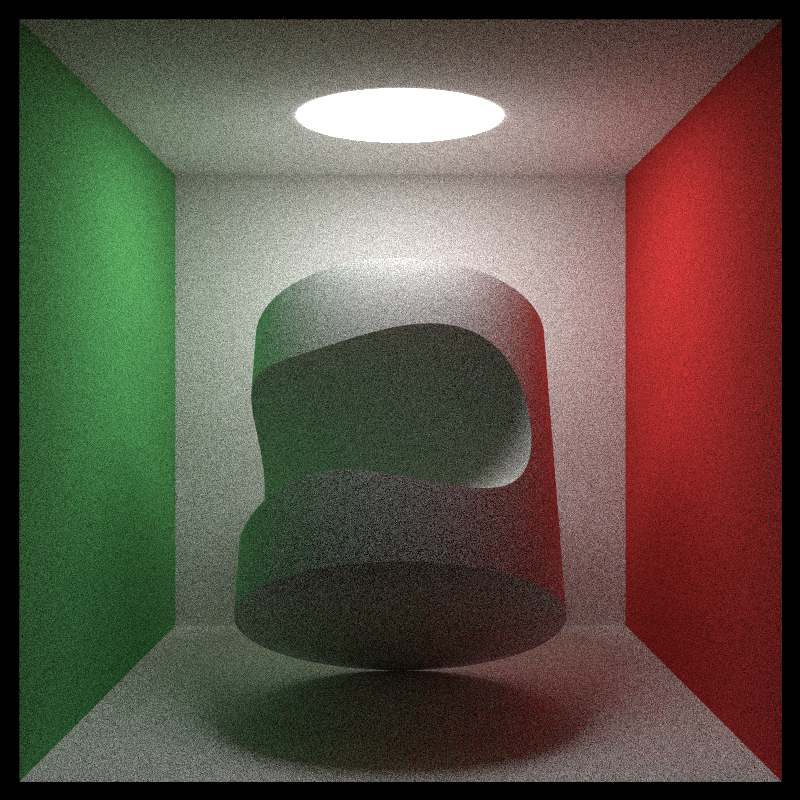
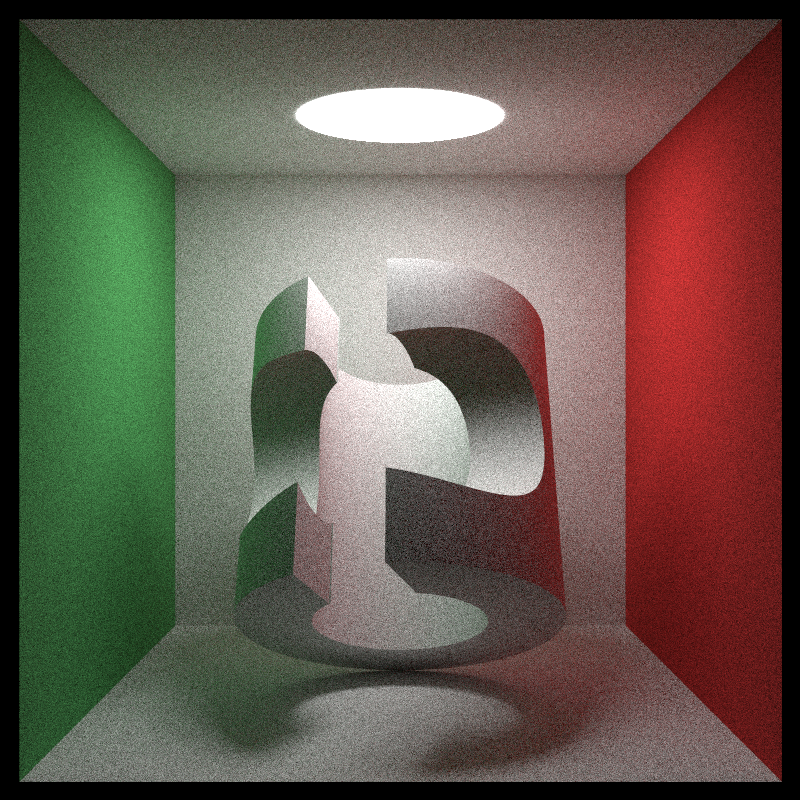
simple geometry subtraction

diff --git a/src/Hittable/Operation/Subtract.cpp b/src/Hittable/Operation/Subtract.cpp
@@ -1,66 +1,119 @@
 #include "Subtract.h"
 
-Subtract::Subtract(std::shared_ptr<Hittable> _minuend, std::shared_ptr<Hittable> _subtracter)
-    : minuend(_minuend), subtracter(_subtracter)
+bool Subtract::HitRecordComparer(const std::pair<HitRecord, HitRecord> &record1,
+                                 const std::pair<HitRecord, HitRecord> &record2)
+{
+    return record1.first.t < record2.first.t;
+}
+
+Subtract::Subtract(std::shared_ptr<Hittable> _minuend, std::vector<std::shared_ptr<Hittable>> _subtracters)
+    : minuend(_minuend), subtracters(_subtracters)
 {
     bounding_box = minuend->BoundingBox();
 }
 
 bool Subtract::IsHit(const Ray &ray, Interval t_range, HitRecord &hit_record) const
 {
-    HitRecord minuend_hit_record[2], subtracter_hit_record[2];
+    HitRecord minuend_hit_records[2];
 
-    double &minuend_t0 = minuend_hit_record[0].t, &minuend_t1 = minuend_hit_record[1].t,
-           &subtracter_t0 = subtracter_hit_record[0].t, &subtracter_t1 = subtracter_hit_record[1].t;
+    auto subtracters_size = subtracters.size();
+    std::vector<std::pair<HitRecord, HitRecord>> subtracter_hit_records;
+    subtracter_hit_records.resize(subtracters_size);
 
-    if (!minuend->IsHit(ray, t_range, minuend_hit_record[0]))
+    double &minuend_t0 = minuend_hit_records[0].t, &minuend_t1 = minuend_hit_records[1].t;
+
+    if (!minuend->IsHit(ray, t_range, minuend_hit_records[0]))
     {
         return false;
     }
 
     if (!minuend->IsHit(
-            ray, Interval{minuend_hit_record[0].t + 0.0001, t_range.max}, minuend_hit_record[1]))
+            ray, Interval{minuend_hit_records[0].t + 0.0001, t_range.max + 0.0001}, minuend_hit_records[1]))
     {
-        minuend_hit_record[1].t = minuend_hit_record[0].t + 0.0001;
-    }
-
-    if (!subtracter->IsHit(ray, t_range, subtracter_hit_record[0]))
-    {
-        hit_record = minuend_hit_record[0];
-        return true;
-    }
-
-    if (!subtracter->IsHit(
-            ray, Interval{subtracter_hit_record[0].t + 0.0001, _INFINITY}, subtracter_hit_record[1]))
-    {
-        if (minuend_t0 > subtracter_t0)
-        {
-            hit_record = subtracter_hit_record[0];
-            hit_record.material = minuend_hit_record[0].material;
-            return true;
-        }
-
         return false;
     }
 
-    if (subtracter_t0 < minuend_t0)
+    for (size_t i = 0; i < subtracters_size; i++)
+    {
+        if (!subtracters[i]->IsHit(ray, Interval::universe, subtracter_hit_records[i].first))
+        {
+            subtracter_hit_records[i].first.t = _INFINITY;
+        }
+
+        if (!subtracters[i]->IsHit(ray, Interval{subtracter_hit_records[i].first.t + 0.0001, _INFINITY}, subtracter_hit_records[i].second))
+        {
+            subtracter_hit_records[i].second.t = _INFINITY;
+        }
+
+        if (minuend_t0 > subtracter_hit_records[i].first.t &&
+            minuend_t0 < subtracter_hit_records[i].second.t)
+        {
+            subtracter_hit_records[i].second.material = minuend_hit_records[0].material;
+            minuend_hit_records[0] = subtracter_hit_records[i].second;
+        }
+    }
+
+    std::sort(subtracter_hit_records.begin(), subtracter_hit_records.end(), HitRecordComparer);
+
+    size_t subtracter_start_hit_record_index = 0, subtracter_end_hit_record_index = 0;
+
+    for (size_t i = 0; i < subtracters_size - 1; i++)
+    {
+        if (subtracter_hit_records[i].second.t < 0.)
+        {
+            subtracter_start_hit_record_index = subtracter_end_hit_record_index = i + 1;
+            continue;
+        }
+
+        if (subtracter_hit_records[subtracter_end_hit_record_index].second.t >
+            subtracter_hit_records[i + 1].first.t)
+        {
+            if (subtracter_hit_records[subtracter_end_hit_record_index].second.t <
+                subtracter_hit_records[i + 1].second.t)
+            {
+                subtracter_end_hit_record_index = i + 1;
+            }
+        }
+        else
+        {
+            break;
+        }
+    }
+
+    auto subtracter_t1 = subtracter_hit_records[subtracter_end_hit_record_index].second.t;
+    if (subtracter_t1 < 0.)
+    {
+        return false;
+    }
+
+    auto subtracter_t0 =
+        subtracter_hit_records[subtracter_start_hit_record_index].first.t > 0.
+            ? subtracter_hit_records[subtracter_start_hit_record_index].first.t
+            : 0.;
+
+    if (subtracter_t0 <= minuend_t0)
     {
         if (subtracter_t1 < minuend_t0)
         {
-            hit_record = minuend_hit_record[0];
+            hit_record = minuend_hit_records[0];
             return true;
+        }
+
+        if (subtracter_t1 > t_range.max)
+        {
+            return false;
         }
 
         if (subtracter_t1 < minuend_t1)
         {
-            hit_record = subtracter_hit_record[1];
-            hit_record.material = minuend_hit_record[0].material;
+            hit_record = subtracter_hit_records[subtracter_end_hit_record_index].second;
+            hit_record.material = minuend_hit_records[0].material;
             return true;
         }
     }
     else
     {
-        hit_record = minuend_hit_record[0];
+        hit_record = minuend_hit_records[0];
         return true;
     }
 

diff --git a/main.cpp b/main.cpp
@@ -1,6 +1,3 @@
-#if 1
-
-#include <iostream>
 #include "global.h"
 #include "Camera.h"
 #include "HittableList.h"
@@ -24,8 +21,6 @@ int main()
         Point3{555., 0., 0.}, Vector3{0., 555., 0.}, Vector3{0., 0., 555.}, green));
     world.Add(std::make_shared<Quadrilateral>(
         Point3{0., 0., 0.}, Vector3{0., 555., 0.}, Vector3{0., 0., 555.}, red));
-    // world.Add(std::make_shared<Quadrilateral>(
-    //     Point3{343., 554., 332.}, Vector3{-130., 0., 0.}, Vector3{0., 0., -105.}, light));
     world.Add(std::make_shared<Disk>(Point3{278., 554., 278.}, 100., light));
     world.Add(std::make_shared<Quadrilateral>(
         Point3{0., 0., 0.}, Vector3{555., 0., 0.}, Vector3{0., 0., 555.}, white));
@@ -36,12 +31,18 @@ int main()
 
     std::shared_ptr<Hittable> cylinder = std::make_shared<Cylinder>(Point3{0.}, 150., 300., white);
 
-    std::shared_ptr<Hittable> transparent = std::make_shared<Cylinder>(Point3{0.}, 80., 300., white);
-    transparent = std::make_shared<Rotate>(transparent, 90, 0);
-    transparent = std::make_shared<Translate>(transparent, Vector3{100., 150., -150.});
+    std::shared_ptr<Hittable> transparent1 = std::make_shared<Cylinder>(Point3{0.}, 80., 300., white);
+    transparent1 = std::make_shared<Rotate>(transparent1, 90, 0);
+    transparent1 = std::make_shared<Translate>(transparent1, Vector3{100., 150., -150.});
+
+    std::shared_ptr<Hittable> transparent2 = std::make_shared<Cylinder>(Point3{0., -1., 0.}, 80., 302., white);
+
+    std::shared_ptr<Hittable> transparent3 = std::make_shared<Cuboid>(Point3{70., -1., -40.}, Point3{200., 301., 40.}, white);
+
+    std::vector transparent{transparent1, transparent2, transparent3};
     cylinder = std::make_shared<Subtract>(cylinder, transparent);
 
-    cylinder = std::make_shared<Rotate>(cylinder, 60., 1);
+    cylinder = std::make_shared<Rotate>(cylinder, 70., 1);
     cylinder = std::make_shared<Rotate>(cylinder, 30., 0);
     cylinder = std::make_shared<Translate>(cylinder, Vector3{278., 150. * std::sin(Deg2Rad(30.)), 200.});
     world.Add(cylinder);
@@ -51,7 +52,7 @@ int main()
     Camera camera;
     camera.aspect_ratio = 1.0;
     camera.image_width = 800;
-    camera.samples_per_pixel = 500;
+    camera.samples_per_pixel = 600;
     camera.max_depth = 50;
     camera.background = Color{0.};
 
@@ -64,5 +65,3 @@ int main()
 
     camera.Render(world);
 }
-
-#endif // 1

diff --git a/include/Hittable/Operation/Subtract.h b/include/Hittable/Operation/Subtract.h
@@ -1,16 +1,23 @@
 #pragma once
 
 #include "Operation.h"
+#include "HittableList.h"
+
+#include <vector>
+#include <algorithm>
 
 /* Subtract */
 class Subtract : public Operation
 {
 public:
-    Subtract(std::shared_ptr<Hittable> _minuend, std::shared_ptr<Hittable> _subtracter);
+    static bool HitRecordComparer(const std::pair<HitRecord, HitRecord> &record1, const std::pair<HitRecord, HitRecord> &record2);
+
+public:
+    Subtract(std::shared_ptr<Hittable> _minuend, std::vector<std::shared_ptr<Hittable>> _subtracters);
 
     bool IsHit(const Ray &ray, Interval t_range, HitRecord &hit_record) const override;
 
 private:
     std::shared_ptr<Hittable> minuend;
-    std::shared_ptr<Hittable> subtracter;
+    std::vector<std::shared_ptr<Hittable>> subtracters;
 };

diff --git a/include/Hittable/HittableList.h b/include/Hittable/HittableList.h
@@ -10,10 +10,9 @@
 class HittableList : public Hittable
 {
 public:
-    std::vector<std::shared_ptr<Hittable>> objects;
-
     HittableList() {}
     HittableList(const std::shared_ptr<Hittable> object);
+    HittableList(const std::vector<std::shared_ptr<Hittable>> &_objects);
 
     void Clear();
 
@@ -22,4 +21,7 @@ public:
     size_t Size() const;
 
     bool IsHit(const Ray &ray, Interval t_range, HitRecord &hit_record) const override;
+
+public:
+    std::vector<std::shared_ptr<Hittable>> objects;
 };

diff --git a/src/Hittable/HittableList.cpp b/src/Hittable/HittableList.cpp
@@ -5,6 +5,11 @@ HittableList::HittableList(const std::shared_ptr<Hittable> object)
     Add(object);
 }
 
+HittableList::HittableList(const std::vector<std::shared_ptr<Hittable>> &_objects)
+{
+    objects = _objects;
+}
+
 void HittableList::Clear()
 {
     objects.clear();
